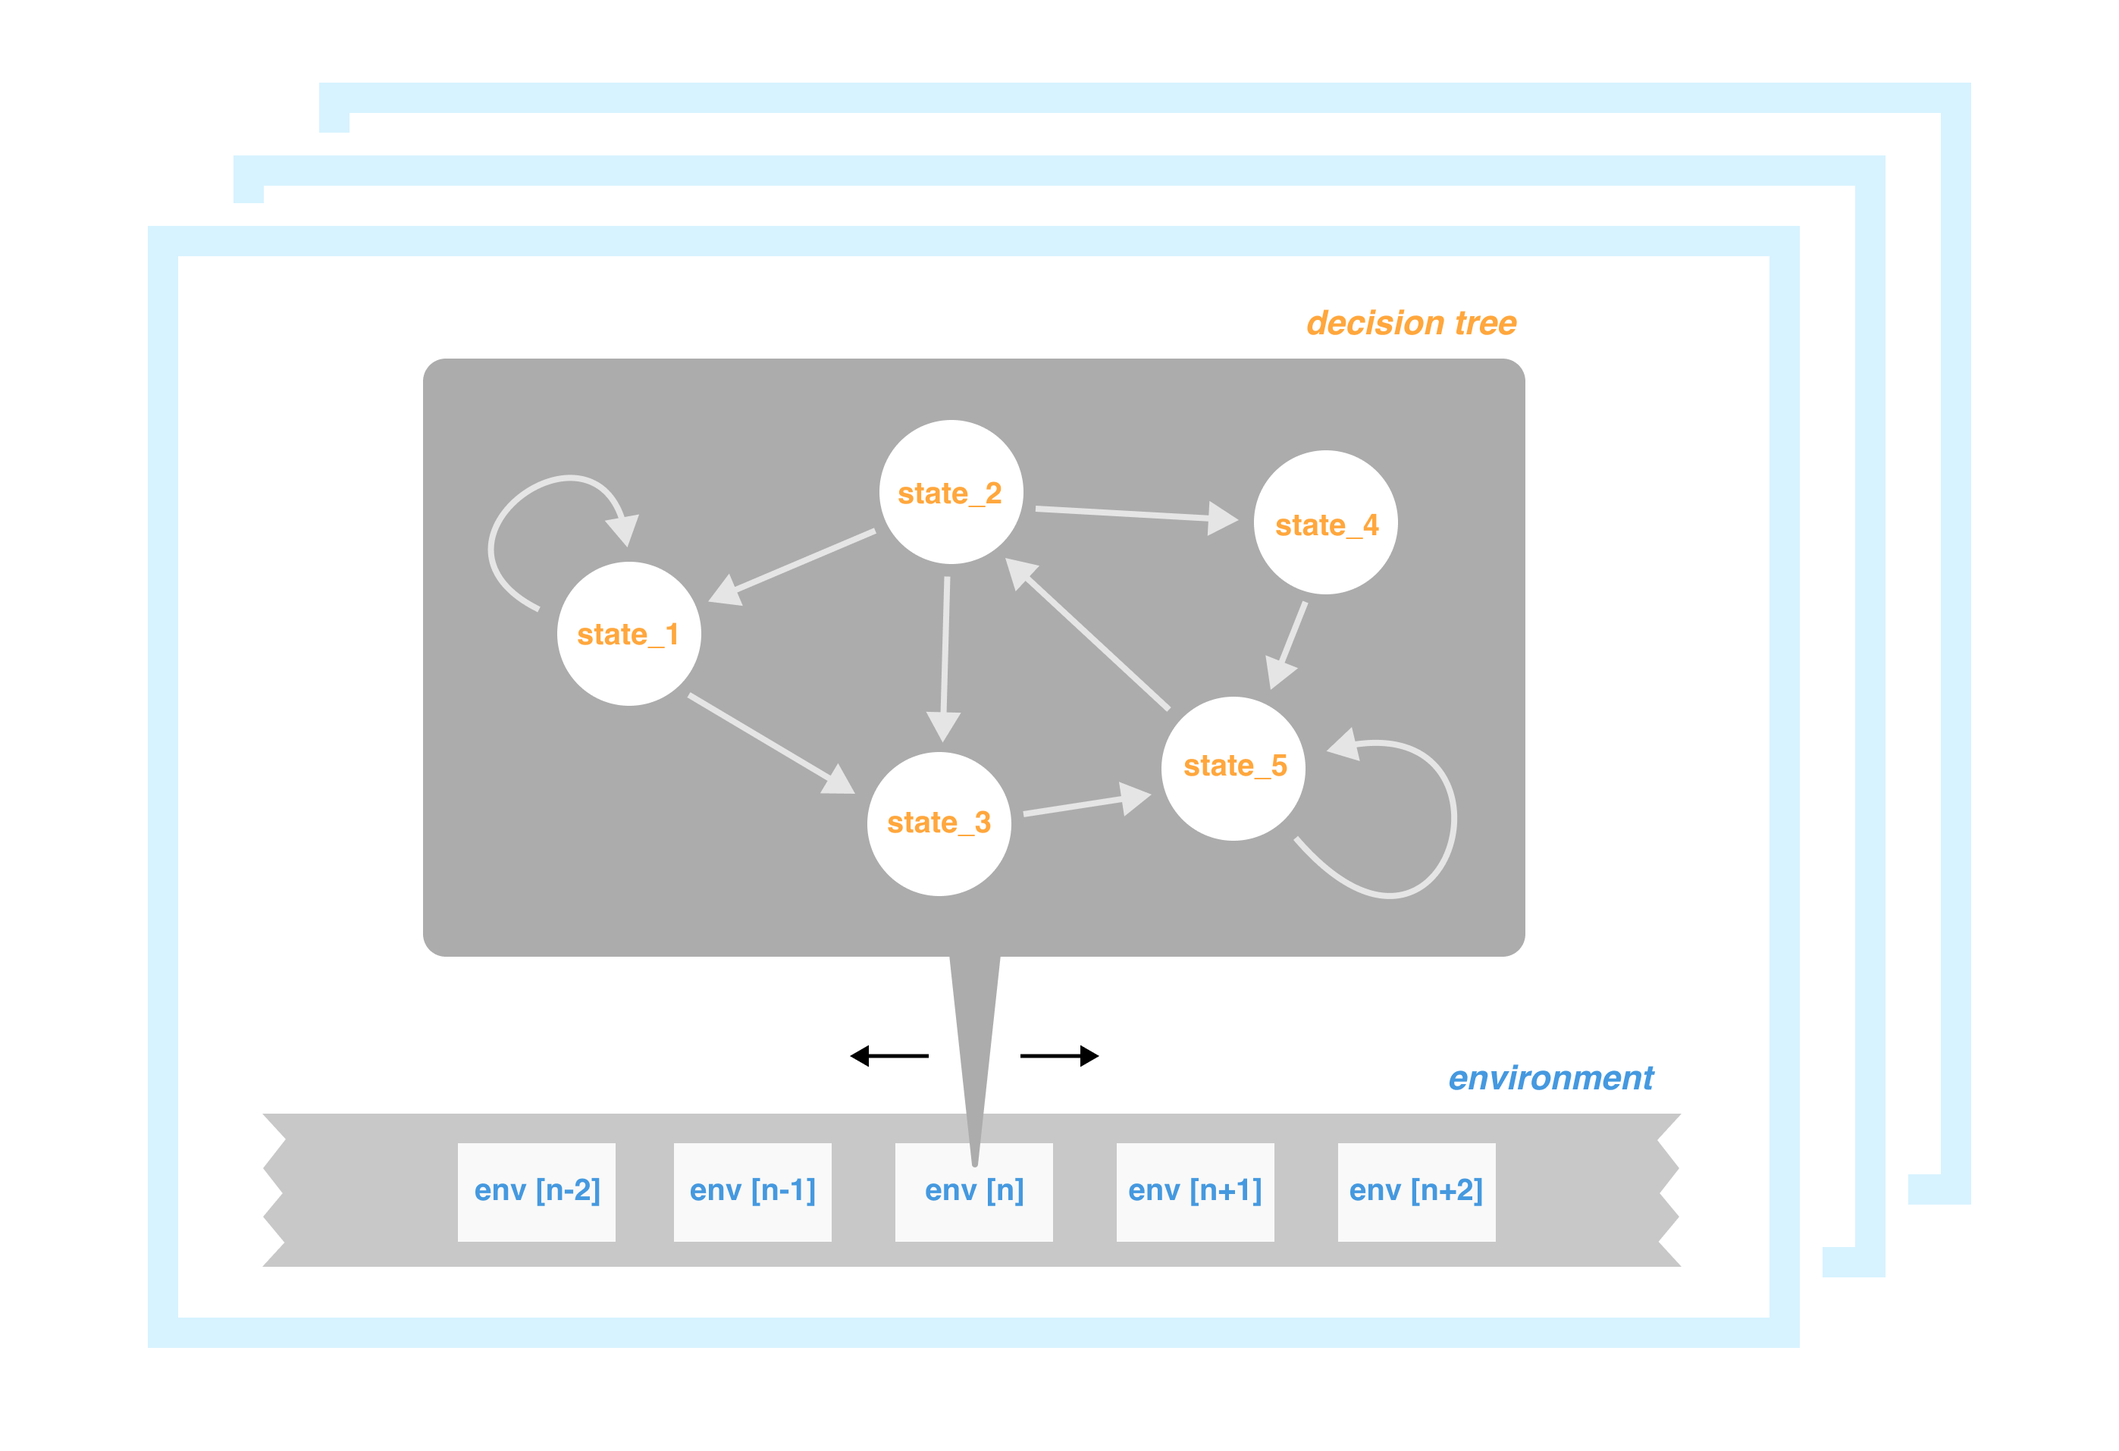
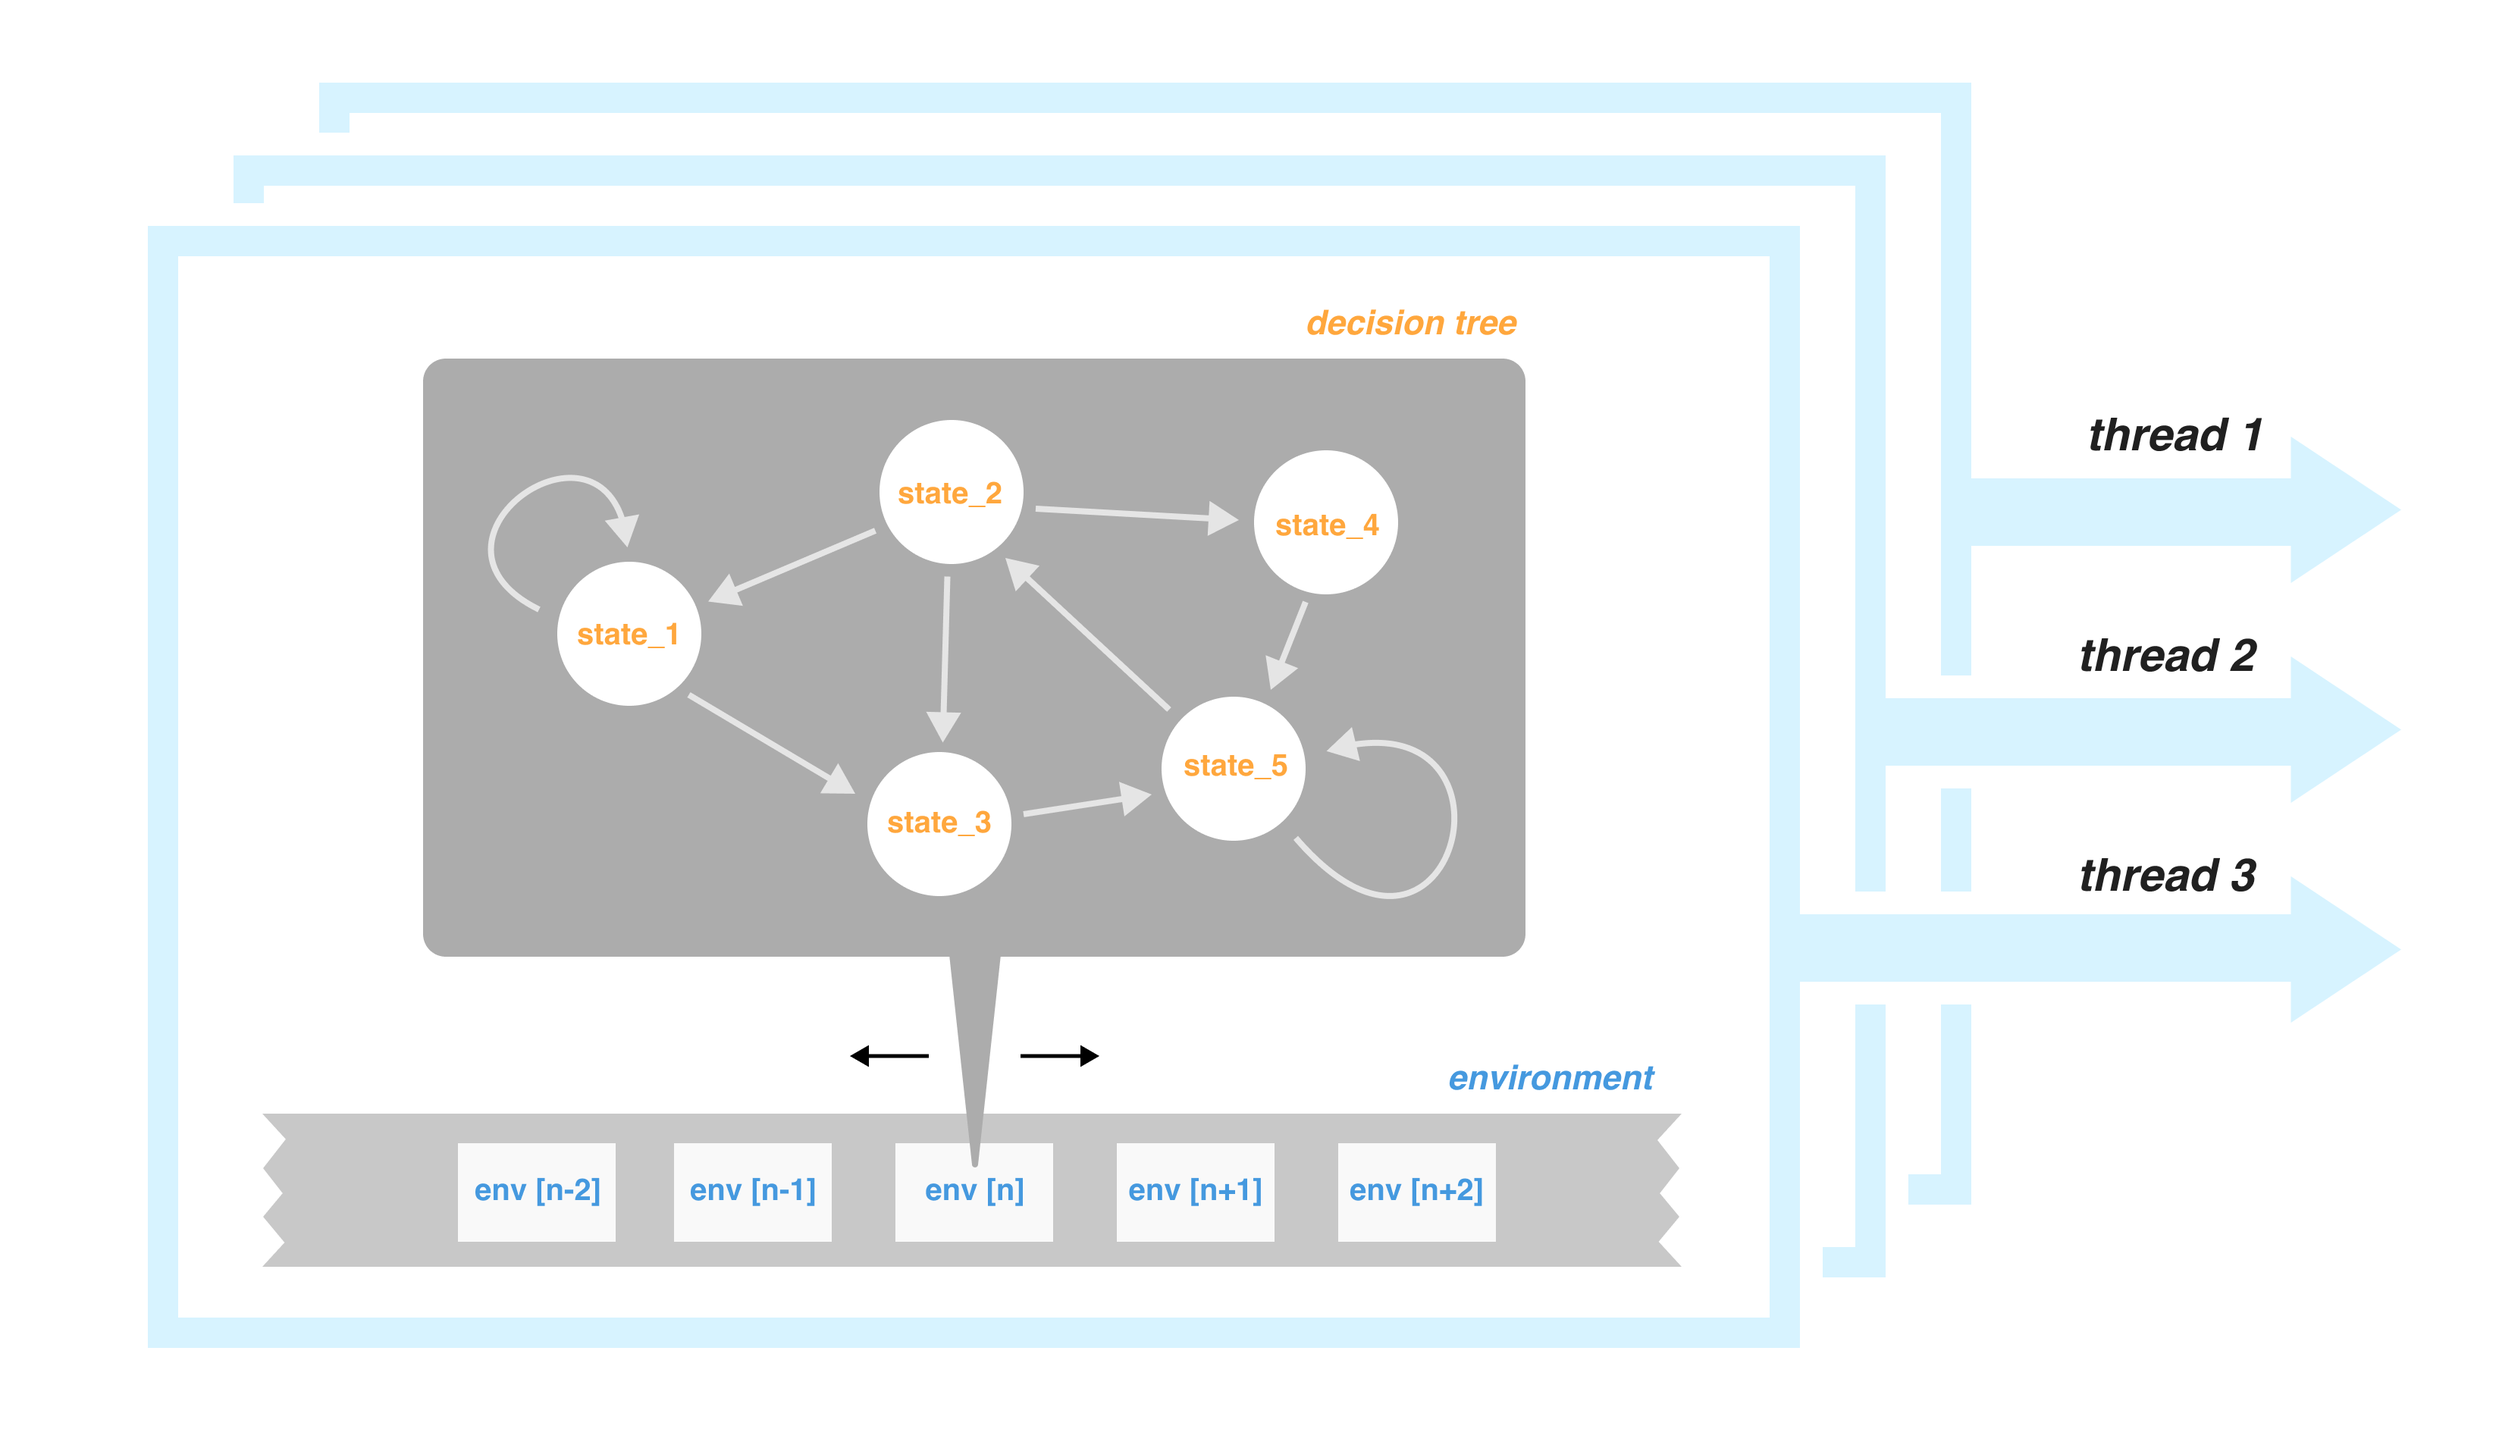
:wrench: 1.introduce action.get() and actionflow.get() 2. fixed the bug of saving user_case_history 3. updated a new threads figure

diff --git a/puppy/thread/mainThread/thread.py b/puppy/thread/mainThread/thread.py
@@ -30,6 +30,8 @@ class Thread(ThreadBase):
 
         print(f"{self.thread_name}: Initialize and Done \U0001F3B2")
 
+
+
     # naming the thread with args
     def _naming(self, **kwargs) -> None:
         # if 'puppy' in kwargs:
@@ -47,11 +49,15 @@ class Thread(ThreadBase):
             self.thread_name = "Ur Thread"
             print(f'Created a thread !')
 
+
+
     # build the actionflow under the thread
     def _build_default_actionflow(self) -> None:
 
         self.actionflow = Actionflow(thread_instance=self)
         print(f'{self.thread_name}: Build the actionflow!')
+
+
 
     # import default funcs into the thread and get the description and example
     def _import_default_funcs_and_infos(self) -> None:
@@ -61,6 +67,8 @@ class Thread(ThreadBase):
         print(f'{self.thread_name}: Installed all default tools!')
 
         self.functions_description_and_example = self.funcs_default.get_infos()
+
+
 
     # parse the code and load the action to the actionflow.pending_list
     def parse_and_load(self, func) -> callable:
@@ -80,6 +88,8 @@ class Thread(ThreadBase):
             self.actionflow.pending_list.append(action)
 
         return wrapper
+
+
 
     # set the default decision tree for run the actionflow
     def default_decisiontree(self) -> None:
@@ -127,11 +137,37 @@ class Thread(ThreadBase):
                 elif action.status == "changeable":
                     pass
 
-        # print(self.actionflow.history_list)
 
-        # TODO: save the actionflow.history_list to the folder of history
 
-        # self.save_actionflow_history()
+        print(self.actionflow.history_list)
+
+        self.save_actionflow_history()
+
+    # save the actionflow.history to a file
+    def save_actionflow_history(self):
+        # save the actionflow_history
+        import os
+        from datetime import datetime
+        import json
+
+        # get date and time
+        now = datetime.now()
+        date_str = now.strftime("%Y-%m-%d_%H-%M-%S")
+
+        # create folder, if not exist
+        folder_path = "user_case_history"  # Corrected the folder name from 'histoty' to 'history'
+        os.makedirs(folder_path, exist_ok=True)
+
+        # create a new file
+        file_path = os.path.join(folder_path, f"user_case_history_{date_str}.txt")
+
+        # Directly convert the Python object to a JSON string
+        list = self.actionflow.history_list.get()
+
+        # Write the JSON string to a file
+        with open(file_path, "w") as file:
+            file.write(str(list))
+
 
     def _do(self, action) -> None:
 

diff --git a/puppy/thread/mainThread/actionflow/actionflow.py b/puppy/thread/mainThread/actionflow/actionflow.py
@@ -1,3 +1,4 @@
+import copy
 import queue
 from puppy.thread.mainThread.base import ThreadBase
 from puppy.thread.mainThread.actionflow.action import Action
@@ -62,3 +63,9 @@ class ActionflowList(list):
     # pop an action from the start of list
     def pop_action(self) -> Action:
         return self.pop(0)
+
+    def get(self) -> list:
+        list=[]
+        for action in self:
+            list.append(action.get())
+        return list

diff --git a/puppy/thread/mainThread/actionflow/action.py b/puppy/thread/mainThread/actionflow/action.py
@@ -20,6 +20,13 @@ class Action:
 
         return overall_dict
 
+    def get(self) -> dict:
+        overall_dict = {"name": self.name,
+                        "code": self.code,
+                        "status": self.status}
+
+        return overall_dict
+
 
 # TODO: abstract the parser to convert the source code to diverse properties
 def parse_code2list(source_code: str) -> list:
